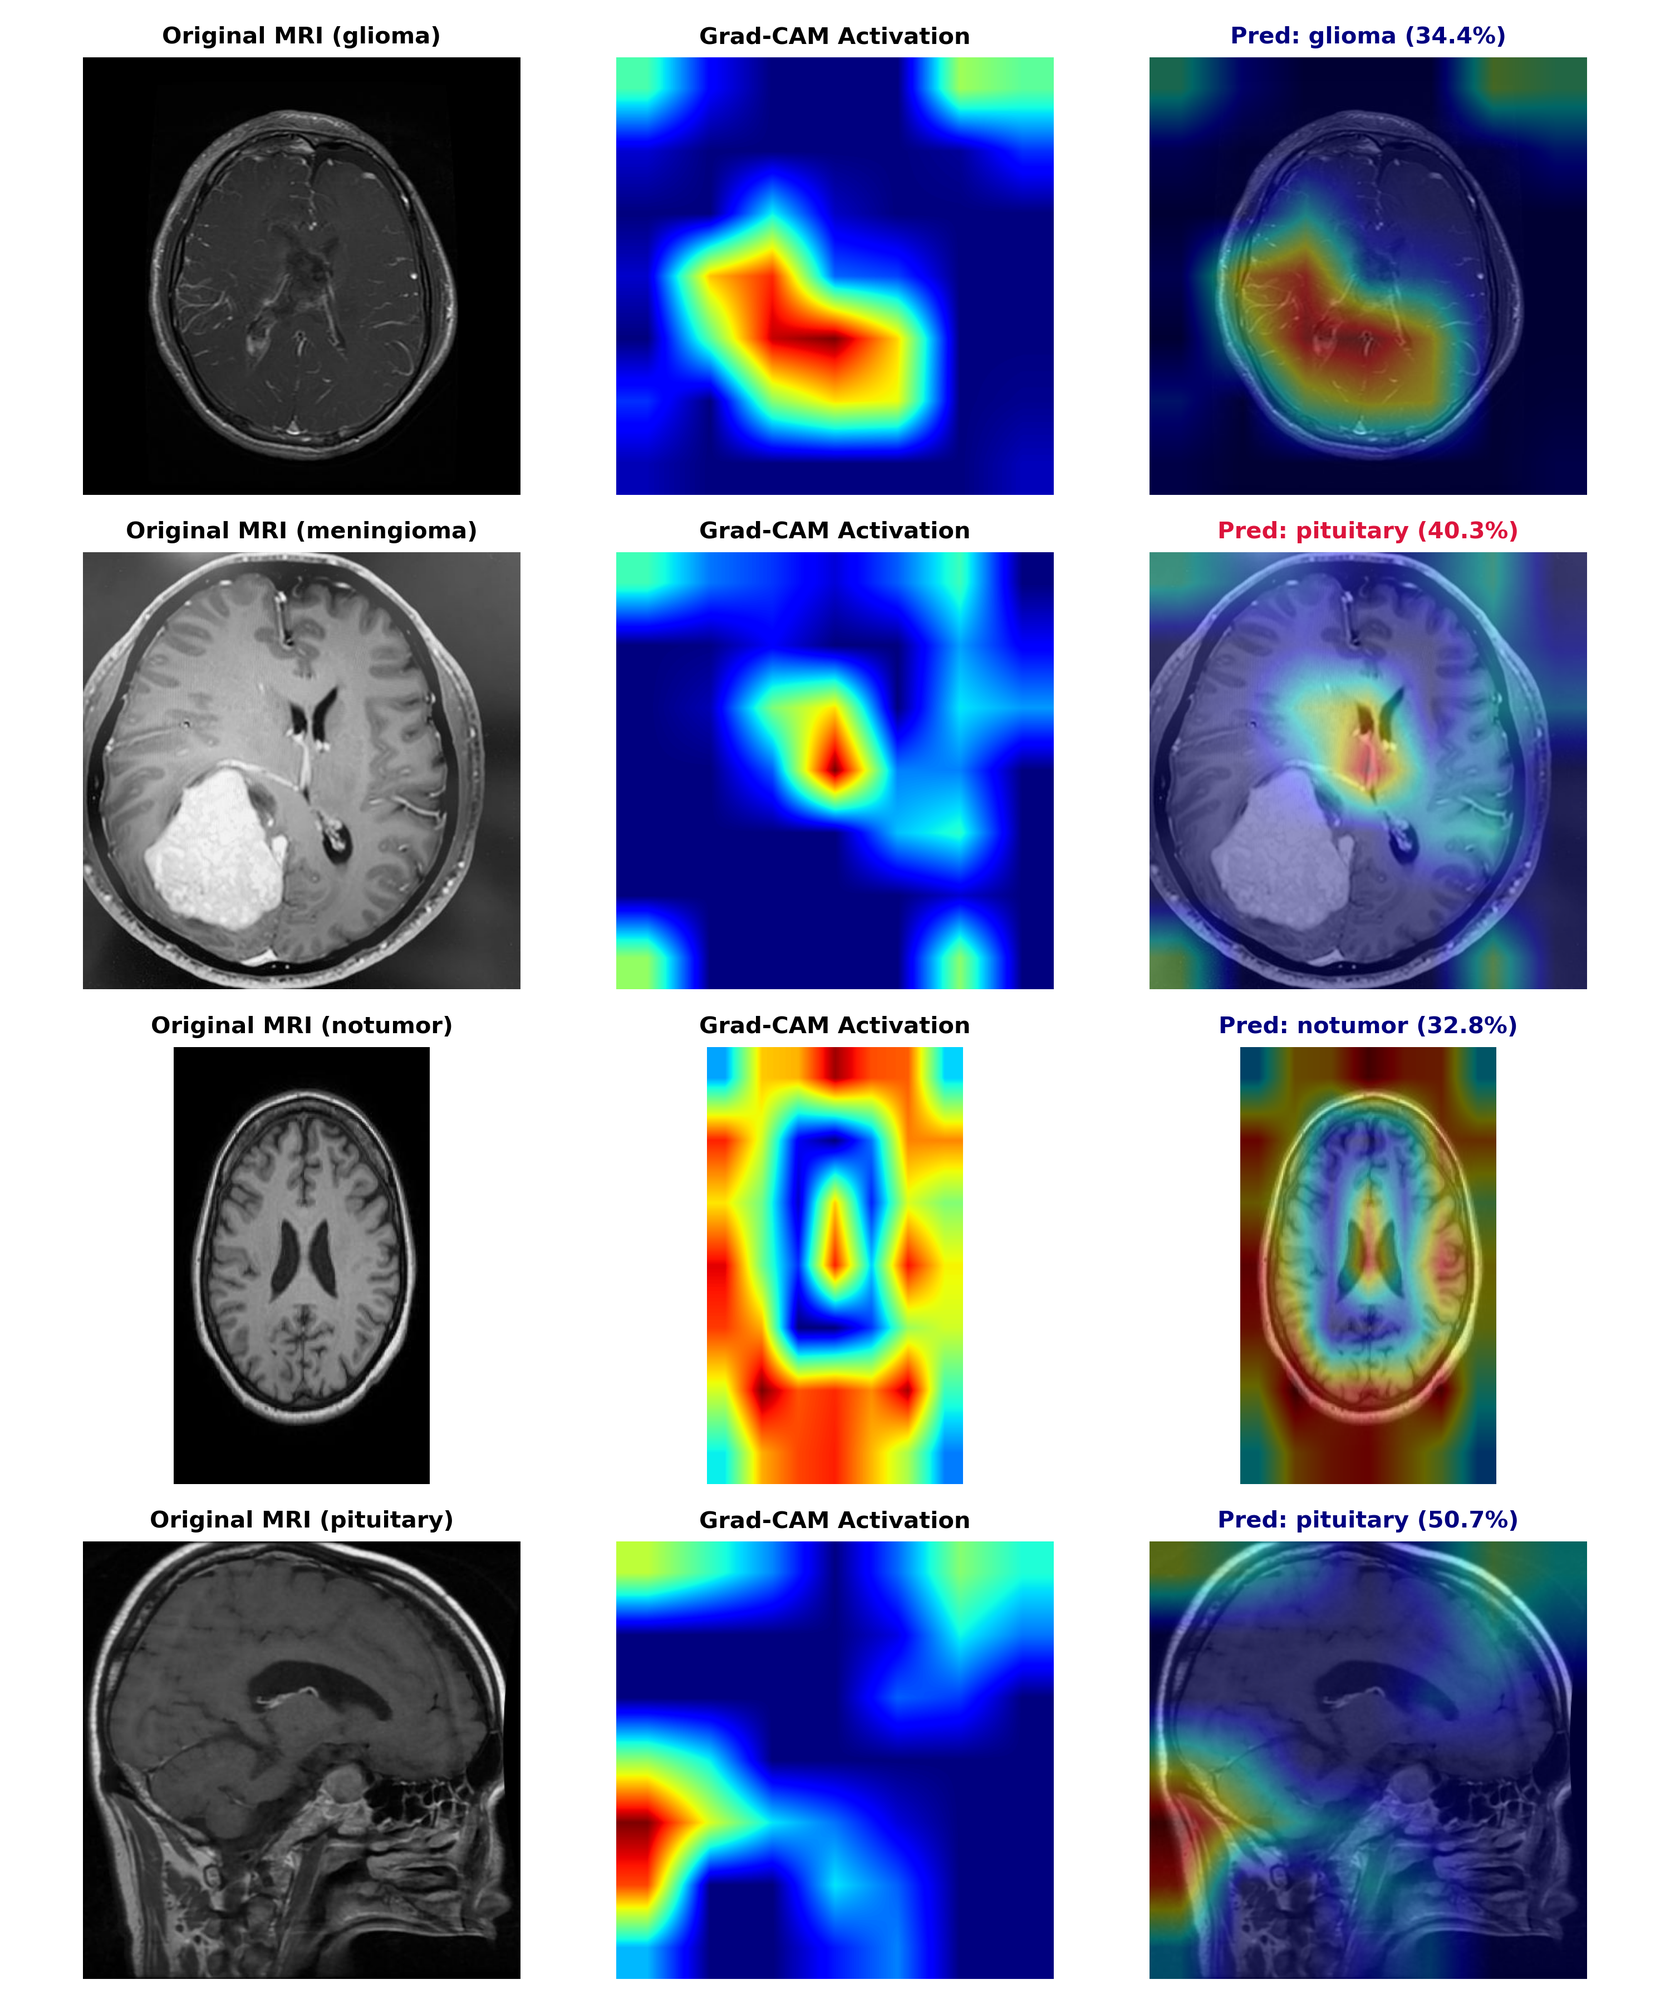
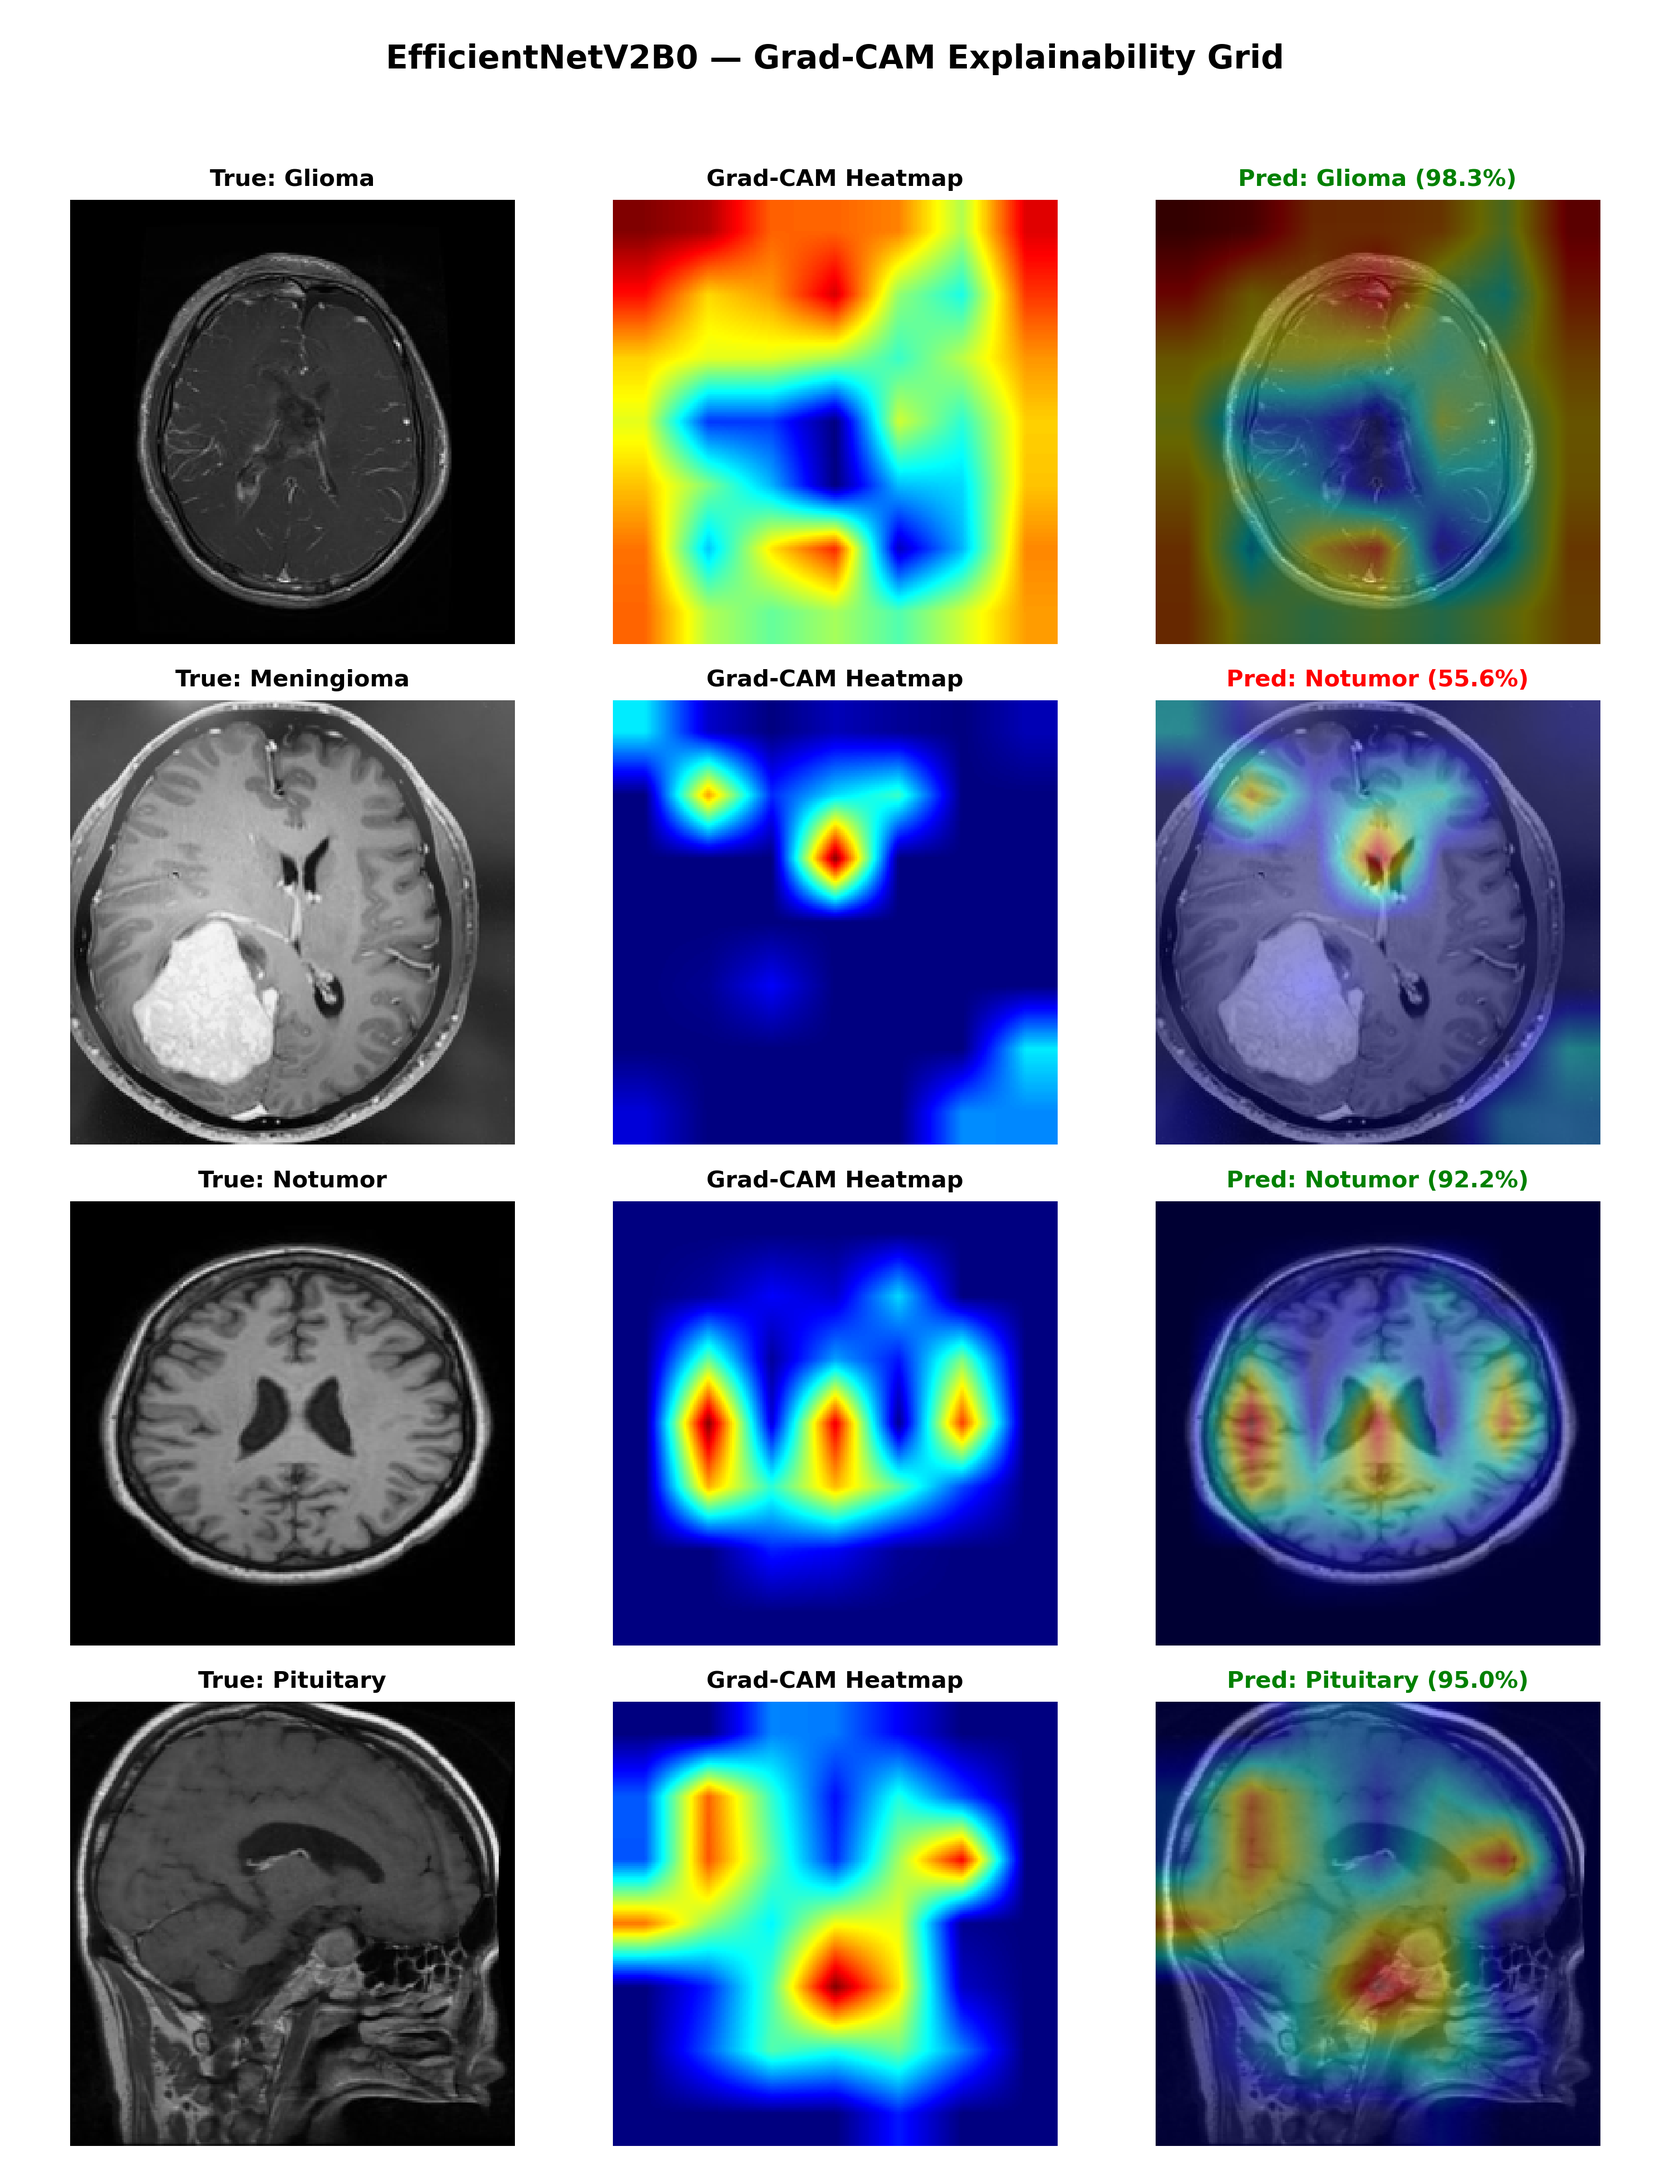
.

diff --git a/generate_all_gradcam.py b/generate_all_gradcam.py
@@ -1,0 +1,186 @@
+import os
+import cv2
+import numpy as np
+import pandas as pd
+import matplotlib
+matplotlib.use("Agg")
+import matplotlib.pyplot as plt
+import tensorflow as tf
+
+from src import config
+from src.data_loader import load_dataset_file_paths
+from src.preprocessing import get_preprocessing_function
+from src.models import apply_cbam_attention
+
+os.makedirs(config.GRADCAM_DIR, exist_ok=True)
+
+def get_last_conv_layer_name(model):
+    for layer in reversed(model.layers):
+        if isinstance(layer, (tf.keras.layers.Conv2D, tf.keras.layers.DepthwiseConv2D)):
+            return layer.name
+        if len(layer.output_shape) == 4 and "conv" in layer.name:
+            return layer.name
+    return None
+
+def compute_gradcam(model, img_array, target_layer_name, pred_index=None):
+    base_m = getattr(model, "base_model", None)
+    
+    # Standard flat model or backbone model
+    if base_m is None:
+        try:
+            target_layer = model.get_layer(target_layer_name)
+        except Exception:
+            target_layer_name = get_last_conv_layer_name(model)
+            target_layer = model.get_layer(target_layer_name)
+            
+        grad_model = tf.keras.models.Model(
+            inputs=[model.inputs],
+            outputs=[target_layer.output, model.output]
+        )
+        with tf.GradientTape() as tape:
+            conv_outputs, predictions = grad_model(img_array)
+            if pred_index is None:
+                pred_index = tf.argmax(predictions[0])
+            class_channel = predictions[:, pred_index]
+
+        grads = tape.gradient(class_channel, conv_outputs)
+        pooled_grads = tf.reduce_mean(grads, axis=(0, 1, 2))
+        conv_outputs = conv_outputs[0]
+        heatmap = conv_outputs @ pooled_grads[..., tf.newaxis]
+        heatmap = tf.squeeze(heatmap)
+        heatmap = tf.maximum(heatmap, 0) / (tf.reduce_max(heatmap) + 1e-10)
+        return heatmap.numpy()
+    else:
+        # Transfer model with base_model property
+        try:
+            conv_layer = base_m.get_layer(target_layer_name)
+        except Exception:
+            target_layer_name = get_last_conv_layer_name(base_m)
+            conv_layer = base_m.get_layer(target_layer_name)
+            
+        base_grad_model = tf.keras.models.Model(inputs=base_m.inputs, outputs=conv_layer.output)
+        
+        with tf.GradientTape() as tape:
+            conv_outputs = base_grad_model(img_array)
+            tape.watch(conv_outputs)
+            x = conv_outputs
+            for l in model.layers:
+                if l.name not in [base_m.name, "input_image", "input_1"]:
+                    x = l(x)
+            predictions = x
+            if pred_index is None:
+                pred_index = tf.argmax(predictions[0])
+            class_channel = predictions[:, pred_index]
+
+        grads = tape.gradient(class_channel, conv_outputs)
+        pooled_grads = tf.reduce_mean(grads, axis=(0, 1, 2))
+        conv_outputs = conv_outputs[0]
+        heatmap = conv_outputs @ pooled_grads[..., tf.newaxis]
+        heatmap = tf.squeeze(heatmap)
+        heatmap = tf.maximum(heatmap, 0) / (tf.reduce_max(heatmap) + 1e-10)
+        return heatmap.numpy()
+
+def generate_gradcam_grid_for_model(m_name, m_path, sample_paths):
+    print(f"\n==================================================")
+    print(f"GENERATING GRAD-CAM EXPLAINABILITY GRID FOR: {m_name}")
+    print(f"==================================================")
+
+    custom_objects = {"apply_cbam_attention": apply_cbam_attention}
+    model = tf.keras.models.load_model(m_path, custom_objects=custom_objects)
+    
+    input_shape = model.input_shape[1:3] if model.input_shape[1] is not None else (224, 224)
+    pfn = get_preprocessing_function(m_name)
+    
+    if m_name == "ResNet50":
+        target_layer = "conv5_block3_out"
+    elif m_name == "DenseNet121":
+        target_layer = "relu"
+    elif m_name == "EfficientNetV2B0":
+        target_layer = "top_activation"
+    else:
+        target_layer = get_last_conv_layer_name(model)
+
+    print(f"Using target layer: '{target_layer}'")
+
+    fig, axes = plt.subplots(4, 3, figsize=(10, 13), dpi=300)
+    plt.suptitle(f"{m_name} — Grad-CAM Explainability Grid", fontsize=14, fontweight='bold', y=0.98)
+
+    for idx, (cls_name, img_p) in enumerate(sample_paths):
+        raw_img = cv2.imread(img_p)
+        raw_img_rgb = cv2.cvtColor(raw_img, cv2.COLOR_BGR2RGB)
+        raw_img_resized = cv2.resize(raw_img_rgb, input_shape)
+
+        img_arr = np.expand_dims(np.array(raw_img_resized, dtype=np.float32), axis=0)
+        preprocessed_x = pfn(img_arr)
+
+        preds = model.predict(preprocessed_x, verbose=0)[0]
+        pred_idx = int(np.argmax(preds))
+        pred_cls = config.CLASSES[pred_idx]
+        conf = float(preds[pred_idx]) * 100.0
+
+        try:
+            heatmap = compute_gradcam(model, preprocessed_x, target_layer, pred_index=pred_idx)
+            heatmap_resized = cv2.resize(heatmap, input_shape)
+            heatmap_uint8 = np.uint8(255 * heatmap_resized)
+            color_heatmap = cv2.applyColorMap(heatmap_uint8, cv2.COLORMAP_JET)
+            color_heatmap_rgb = cv2.cvtColor(color_heatmap, cv2.COLOR_BGR2RGB)
+
+            overlay = cv2.addWeighted(raw_img_resized, 0.6, color_heatmap_rgb, 0.4, 0)
+        except Exception as e:
+            print(f"Warning: GradCAM error for class {cls_name}: {e}")
+            color_heatmap_rgb = np.zeros_like(raw_img_resized)
+            overlay = raw_img_resized
+
+        # Column 0: Original Scan
+        axes[idx, 0].imshow(raw_img_resized)
+        axes[idx, 0].set_title(f"True: {cls_name.capitalize()}", fontsize=10, fontweight='bold')
+        axes[idx, 0].axis('off')
+
+        # Column 1: Grad-CAM Heatmap
+        axes[idx, 1].imshow(color_heatmap_rgb)
+        axes[idx, 1].set_title(f"Grad-CAM Heatmap", fontsize=10, fontweight='bold')
+        axes[idx, 1].axis('off')
+
+        # Column 2: Overlay + Prediction
+        axes[idx, 2].imshow(overlay)
+        axes[idx, 2].set_title(f"Pred: {pred_cls.capitalize()} ({conf:.1f}%)", fontsize=10, fontweight='bold', color='green' if pred_cls == cls_name else 'red')
+        axes[idx, 2].axis('off')
+
+    plt.tight_layout(rect=[0, 0, 1, 0.96])
+    save_key = m_name.replace(" ", "_")
+    output_path = os.path.join(config.GRADCAM_DIR, f"{save_key}_gradcam_grid.png")
+    plt.savefig(output_path, dpi=300)
+    plt.close()
+    print(f"Saved Grad-CAM grid to: {output_path}")
+
+def main():
+    dataset_dir = "/Users/hitesh/Downloads/final_dataset_clean/dataset "
+    if not os.path.exists(dataset_dir):
+        dataset_dir = "/Users/hitesh/Downloads/final_dataset_clean"
+
+    splits = load_dataset_file_paths(data_dir=dataset_dir)
+    test_paths = splits['test_paths']
+    test_labels = splits['test_labels']
+
+    sample_paths = []
+    for i, c in enumerate(config.CLASSES):
+        indices = np.where(test_labels == i)[0]
+        if len(indices) > 0:
+            sample_paths.append((c, test_paths[indices[0]]))
+
+    models_info = [
+        ("ResNet50", os.path.join(config.MODELS_DIR, "ResNet50_best.keras")),
+        ("DenseNet121", os.path.join(config.MODELS_DIR, "DenseNet121_best.keras")),
+        ("EfficientNetV2B0", os.path.join(config.MODELS_DIR, "EfficientNetV2B0_best.keras")),
+        ("Baseline Attention CNN", os.path.join(config.MODELS_DIR, "Baseline_CNN.keras")),
+    ]
+
+    for m_name, m_path in models_info:
+        generate_gradcam_grid_for_model(m_name, m_path, sample_paths)
+
+    print("\n==================================================")
+    print("ALL 4 GRAD-CAM EXPLAINABILITY GRIDS SUCCESSFULLY CREATED!")
+    print("==================================================")
+
+if __name__ == "__main__":
+    main()
